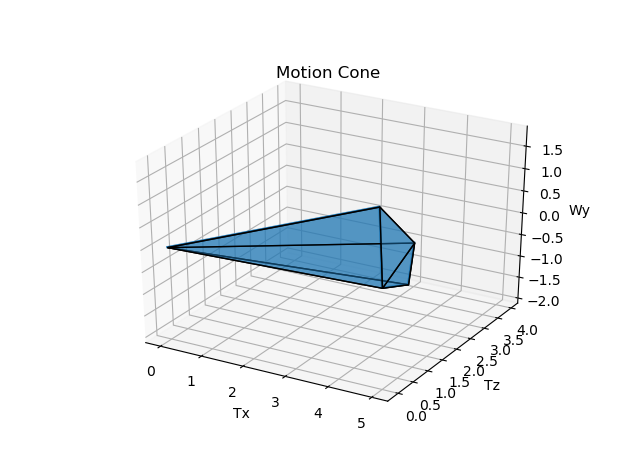
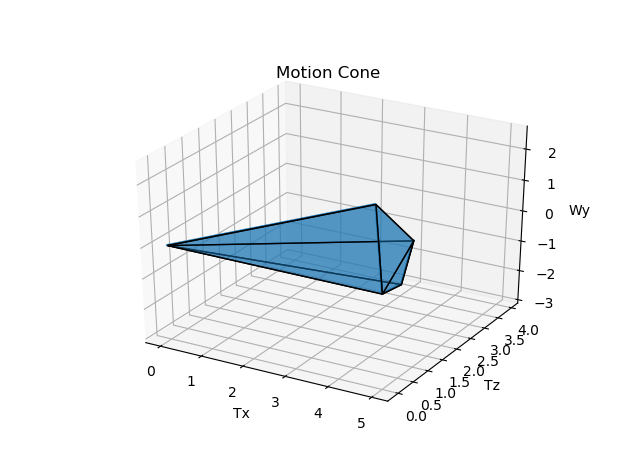
updated parameters

diff --git a/MotionCones_starter.py b/MotionCones_starter.py
@@ -61,9 +61,9 @@ A = np.diag([1/(mu_s*N)**2, 1/(mu_s*N)**2, 1/(k*mu_s*N)**2])
 
 # STEP 2: CALCULATE GENERALIZED FRICTION CONE (set of wrenches the pusher can apply on the object) 
 # Substep a: Calculate Jp: Jacobian that maps object velocity (in object frame) to the velocity at the pusher point contact frames
-Px = -0.15
-Pz1 = -0.0625
-Pz2  = 0.0625
+Px = -.2
+Pz1 = -0.1
+Pz2  = 0.1
 Prot = 0
 Jp1  = PTrans(Px, Pz1, Prot)[0:2,:]  
 Jp2  = PTrans(Px, Pz2, Prot)[0:2,:]
@@ -83,7 +83,7 @@ W = np.row_stack((W1,W2,W3,W4))
 
 # STEP 3: CALCULATE OBJECT VELOCITY
 # Calculate Js
-Sx = 0.0625
+Sx = .1
 Sz   = 0
 Srot = 0
 Js = PTrans(Sx, Sz, Srot)  # Jacobian that maps v_obj (in object frame) to v_s (in support frame)

diff --git a/MotionCones_Solution.py b/MotionCones_Solution.py
@@ -61,9 +61,9 @@ A = np.diag([1/(mu_s*N)**2, 1/(mu_s*N)**2, 1/(k*mu_s*N)**2])
 
 # STEP 2: CALCULATE GENERALIZED FRICTION CONE (set of wrenches the pusher can apply on the object) 
 # Substep a: Calculate Jp: Jacobian that maps object velocity (in object frame) to the velocity at the pusher point contact frames
-Px = -0.15
-Pz1 = -0.0625
-Pz2  = 0.0625
+Px = -.2
+Pz1 = -.1
+Pz2  = .1
 Prot = 0
 Jp1  = PTrans(Px, Pz1, Prot)[0:2,:]  
 Jp2  = PTrans(Px, Pz2, Prot)[0:2,:]
@@ -83,7 +83,7 @@ W = np.row_stack((W1,W2,W3,W4))
 
 # STEP 3: CALCULATE OBJECT VELOCITY
 # Calculate Js
-Sx = 0.0625
+Sx = .1
 Sz   = 0
 Srot = 0
 Js = PTrans(Sx, Sz, Srot)  # Jacobian that maps v_obj (in object frame) to v_s (in support frame)
